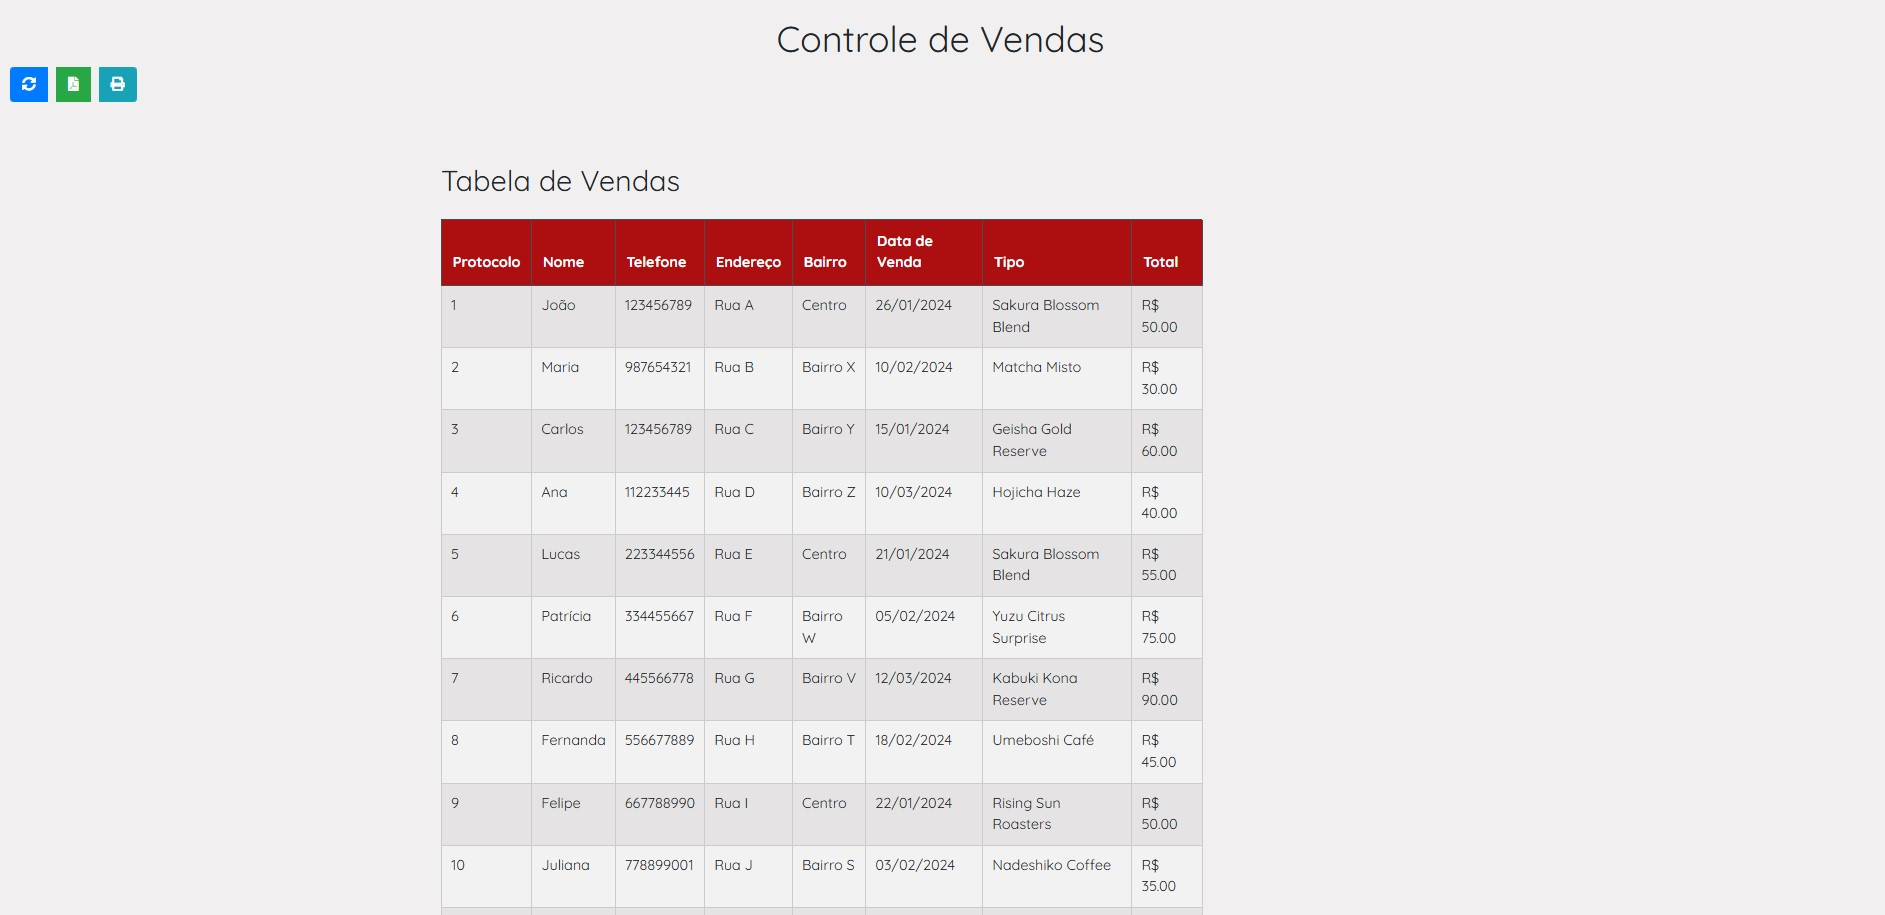
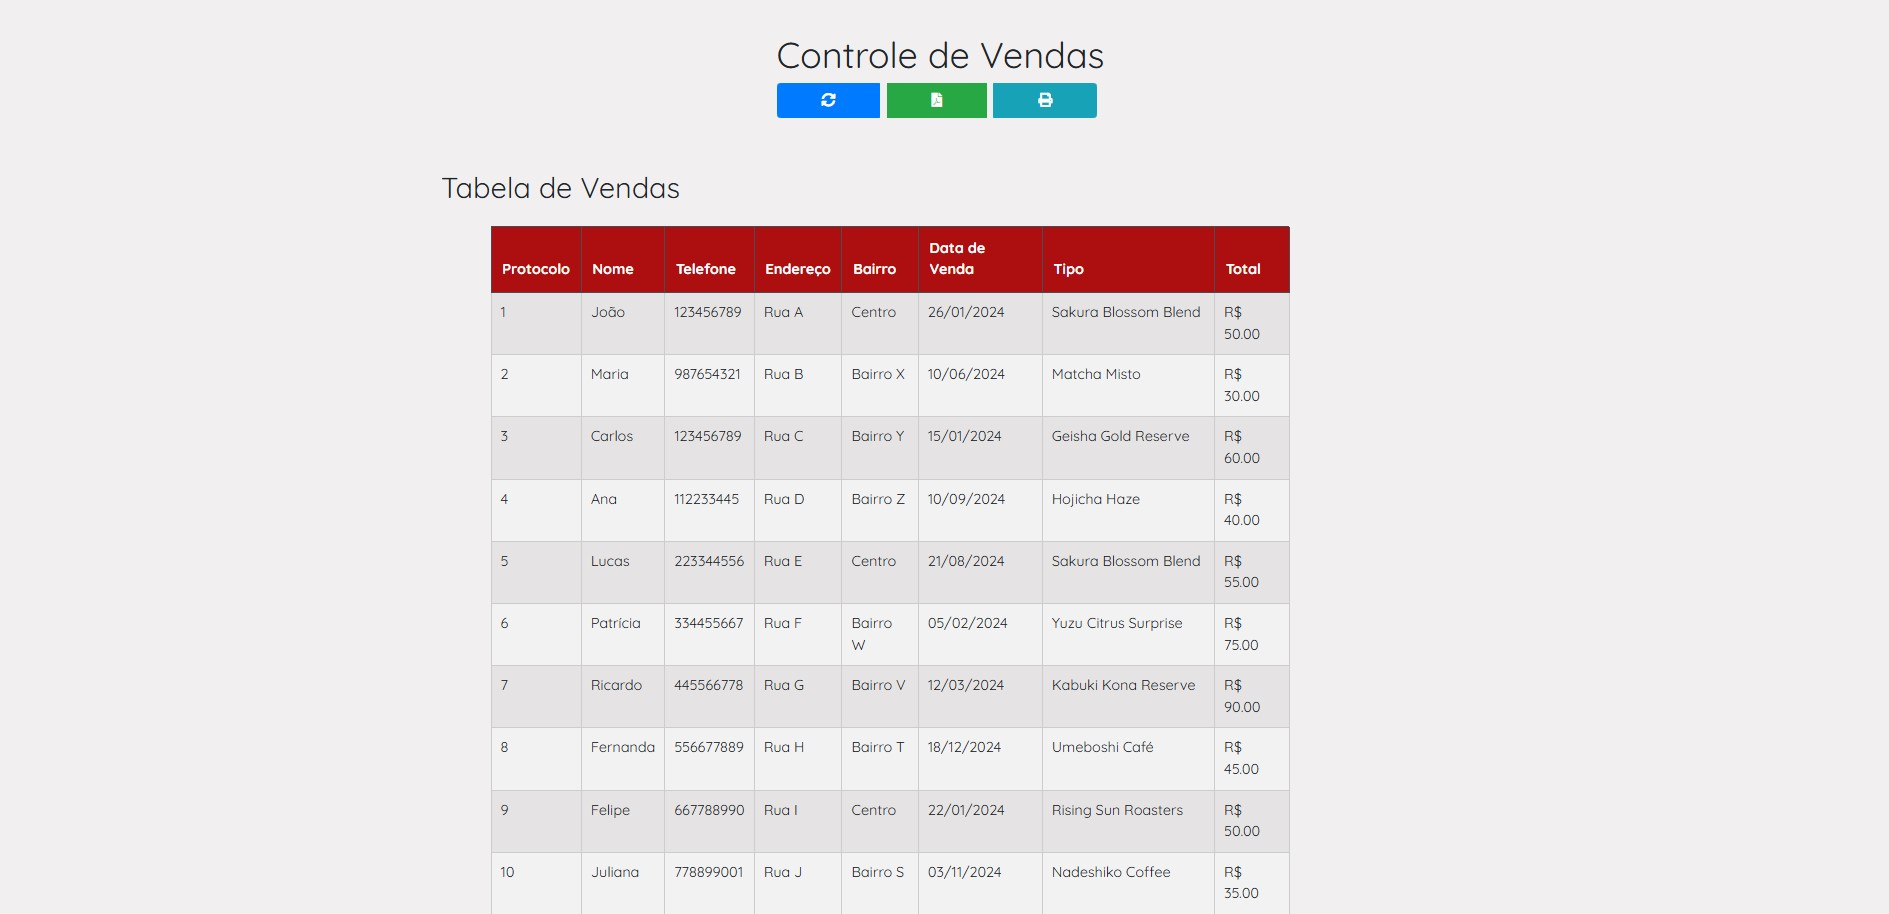
Organizando o sales

diff --git a/js/sales.js b/js/sales.js
@@ -1,18 +1,18 @@
 // Dados simulados de vendas
 let salesData = [
     { protocolo: 1, nome: "João", telefone: "123456789", endereco: "Rua A", bairro: "Centro", data_venda: "26/01/2024", tipo: "Sakura Blossom Blend", valorTotal: 50.00 },
-    { protocolo: 2, nome: "Maria", telefone: "987654321", endereco: "Rua B", bairro: "Bairro X", data_venda: "10/02/2024", tipo: "Matcha Misto", valorTotal: 30.00 },
+    { protocolo: 2, nome: "Maria", telefone: "987654321", endereco: "Rua B", bairro: "Bairro X", data_venda: "10/06/2024", tipo: "Matcha Misto", valorTotal: 30.00 },
     { protocolo: 3, nome: "Carlos", telefone: "123456789", endereco: "Rua C", bairro: "Bairro Y", data_venda: "15/01/2024", tipo: "Geisha Gold Reserve", valorTotal: 60.00 },
-    { protocolo: 4, nome: "Ana", telefone: "112233445", endereco: "Rua D", bairro: "Bairro Z", data_venda: "10/03/2024", tipo: "Hojicha Haze", valorTotal: 40.00 },
-    { protocolo: 5, nome: "Lucas", telefone: "223344556", endereco: "Rua E", bairro: "Centro", data_venda: "21/01/2024", tipo: "Sakura Blossom Blend", valorTotal: 55.00 },
+    { protocolo: 4, nome: "Ana", telefone: "112233445", endereco: "Rua D", bairro: "Bairro Z", data_venda: "10/09/2024", tipo: "Hojicha Haze", valorTotal: 40.00 },
+    { protocolo: 5, nome: "Lucas", telefone: "223344556", endereco: "Rua E", bairro: "Centro", data_venda: "21/08/2024", tipo: "Sakura Blossom Blend", valorTotal: 55.00 },
     { protocolo: 6, nome: "Patrícia", telefone: "334455667", endereco: "Rua F", bairro: "Bairro W", data_venda: "05/02/2024", tipo: "Yuzu Citrus Surprise", valorTotal: 75.00 },
     { protocolo: 7, nome: "Ricardo", telefone: "445566778", endereco: "Rua G", bairro: "Bairro V", data_venda: "12/03/2024", tipo: "Kabuki Kona Reserve", valorTotal: 90.00 },
-    { protocolo: 8, nome: "Fernanda", telefone: "556677889", endereco: "Rua H", bairro: "Bairro T", data_venda: "18/02/2024", tipo: "Umeboshi Café", valorTotal: 45.00 },
+    { protocolo: 8, nome: "Fernanda", telefone: "556677889", endereco: "Rua H", bairro: "Bairro T", data_venda: "18/12/2024", tipo: "Umeboshi Café", valorTotal: 45.00 },
     { protocolo: 9, nome: "Felipe", telefone: "667788990", endereco: "Rua I", bairro: "Centro", data_venda: "22/01/2024", tipo: "Rising Sun Roasters", valorTotal: 50.00 },
-    { protocolo: 10, nome: "Juliana", telefone: "778899001", endereco: "Rua J", bairro: "Bairro S", data_venda: "03/02/2024", tipo: "Nadeshiko Coffee", valorTotal: 35.00 },
-    { protocolo: 11, nome: "Gustavo", telefone: "889900112", endereco: "Rua K", bairro: "Bairro R", data_venda: "26/02/2024", tipo: "Kitsune Kafe", valorTotal: 80.00 },
+    { protocolo: 10, nome: "Juliana", telefone: "778899001", endereco: "Rua J", bairro: "Bairro S", data_venda: "03/11/2024", tipo: "Nadeshiko Coffee", valorTotal: 35.00 },
+    { protocolo: 11, nome: "Gustavo", telefone: "889900112", endereco: "Rua K", bairro: "Bairro R", data_venda: "26/10/2024", tipo: "Kitsune Kafe", valorTotal: 80.00 },
     { protocolo: 12, nome: "Juliana", telefone: "990011223", endereco: "Rua L", bairro: "Centro", data_venda: "04/03/2024", tipo: "Shizuku Coffee Roastery", valorTotal: 50.00 },
-    { protocolo: 13, nome: "Roberta", telefone: "101112131", endereco: "Rua M", bairro: "Bairro U", data_venda: "15/01/2024", tipo: "Tsuki no Kissa", valorTotal: 65.00 }
+    { protocolo: 13, nome: "Roberta", telefone: "101112131", endereco: "Rua M", bairro: "Bairro U", data_venda: "15/05/2024", tipo: "Tsuki no Kissa", valorTotal: 65.00 }
 ];
 
 document.addEventListener("DOMContentLoaded", function() {

diff --git a/css/sales.css b/css/sales.css
@@ -4,12 +4,19 @@ body {
     font-family: 'Quicksand', sans-serif;
     background: #f1f0f0;
     margin: 20px;
+    display: flex;
+    flex-direction: column;
+    align-items: center; /* Centraliza os itens no corpo */
+    justify-content: center;
 }
 
 table {
-    width: 100%;
+    width: 80%; /* Ajuste o tamanho da tabela */
+    max-width: 1000px; /* Tamanho máximo da tabela */
     border-collapse: collapse;
     margin-top: 20px;
+    margin-left: auto;
+    margin-right: auto; /* Centraliza a tabela */
 }
 
 table, th, td {
@@ -33,28 +40,32 @@ h1 {
 }
 
 canvas {
-    max-width: 100%;
+    max-width: 100%; /* Corrige o valor da largura para 100% */
+    width: 100%;
     height: auto;
-    margin: 20px auto;
+    margin: 15px auto;
+    display: block; /* Garante que o canvas seja tratado como um bloco e fique centralizado */
 }
 
 .btn-group {
-    margin-bottom: 20px;
+    margin-bottom: 10px;
+    display: flex;
+    justify-content: center; /* Centraliza os botões dentro do grupo */
 }
 
 .btn {
-    margin-right: 10px;
+    margin-right: 8px;
 }
 
-  #total-sales {
-        font-size: 20px;
-        font-weight: bold;
-        color: #ac0f0f;
-        background-color: #ffeecc;
-        padding: 10px;
-        border-radius: 5px;
-        text-align: center;
-        margin-top: 20px;
-    }
-
-    
+#total-sales {
+    font-size: 20px;
+    font-weight: bold;
+    color: #ac0f0f;
+    background-color: #ffeecc;
+    padding: 10px;
+    border-radius: 5px;
+    text-align: center;
+    margin-top: 20px;
+    margin-left: auto;
+    margin-right: auto; /* Centraliza o elemento */
+}

diff --git a/css/table.css b/css/table.css
@@ -7,7 +7,7 @@
   }
   
   /* SORTABLE TABLE */
-  #itemList { width: 950px; border-collapse: collapse; }
+  #itemList { width: px; border-collapse: collapse; }
   #itemList tr:nth-child(even) { background: #f2f2f2; }
   #itemList td, #demo th {
     text-align: left; padding: 10px;
